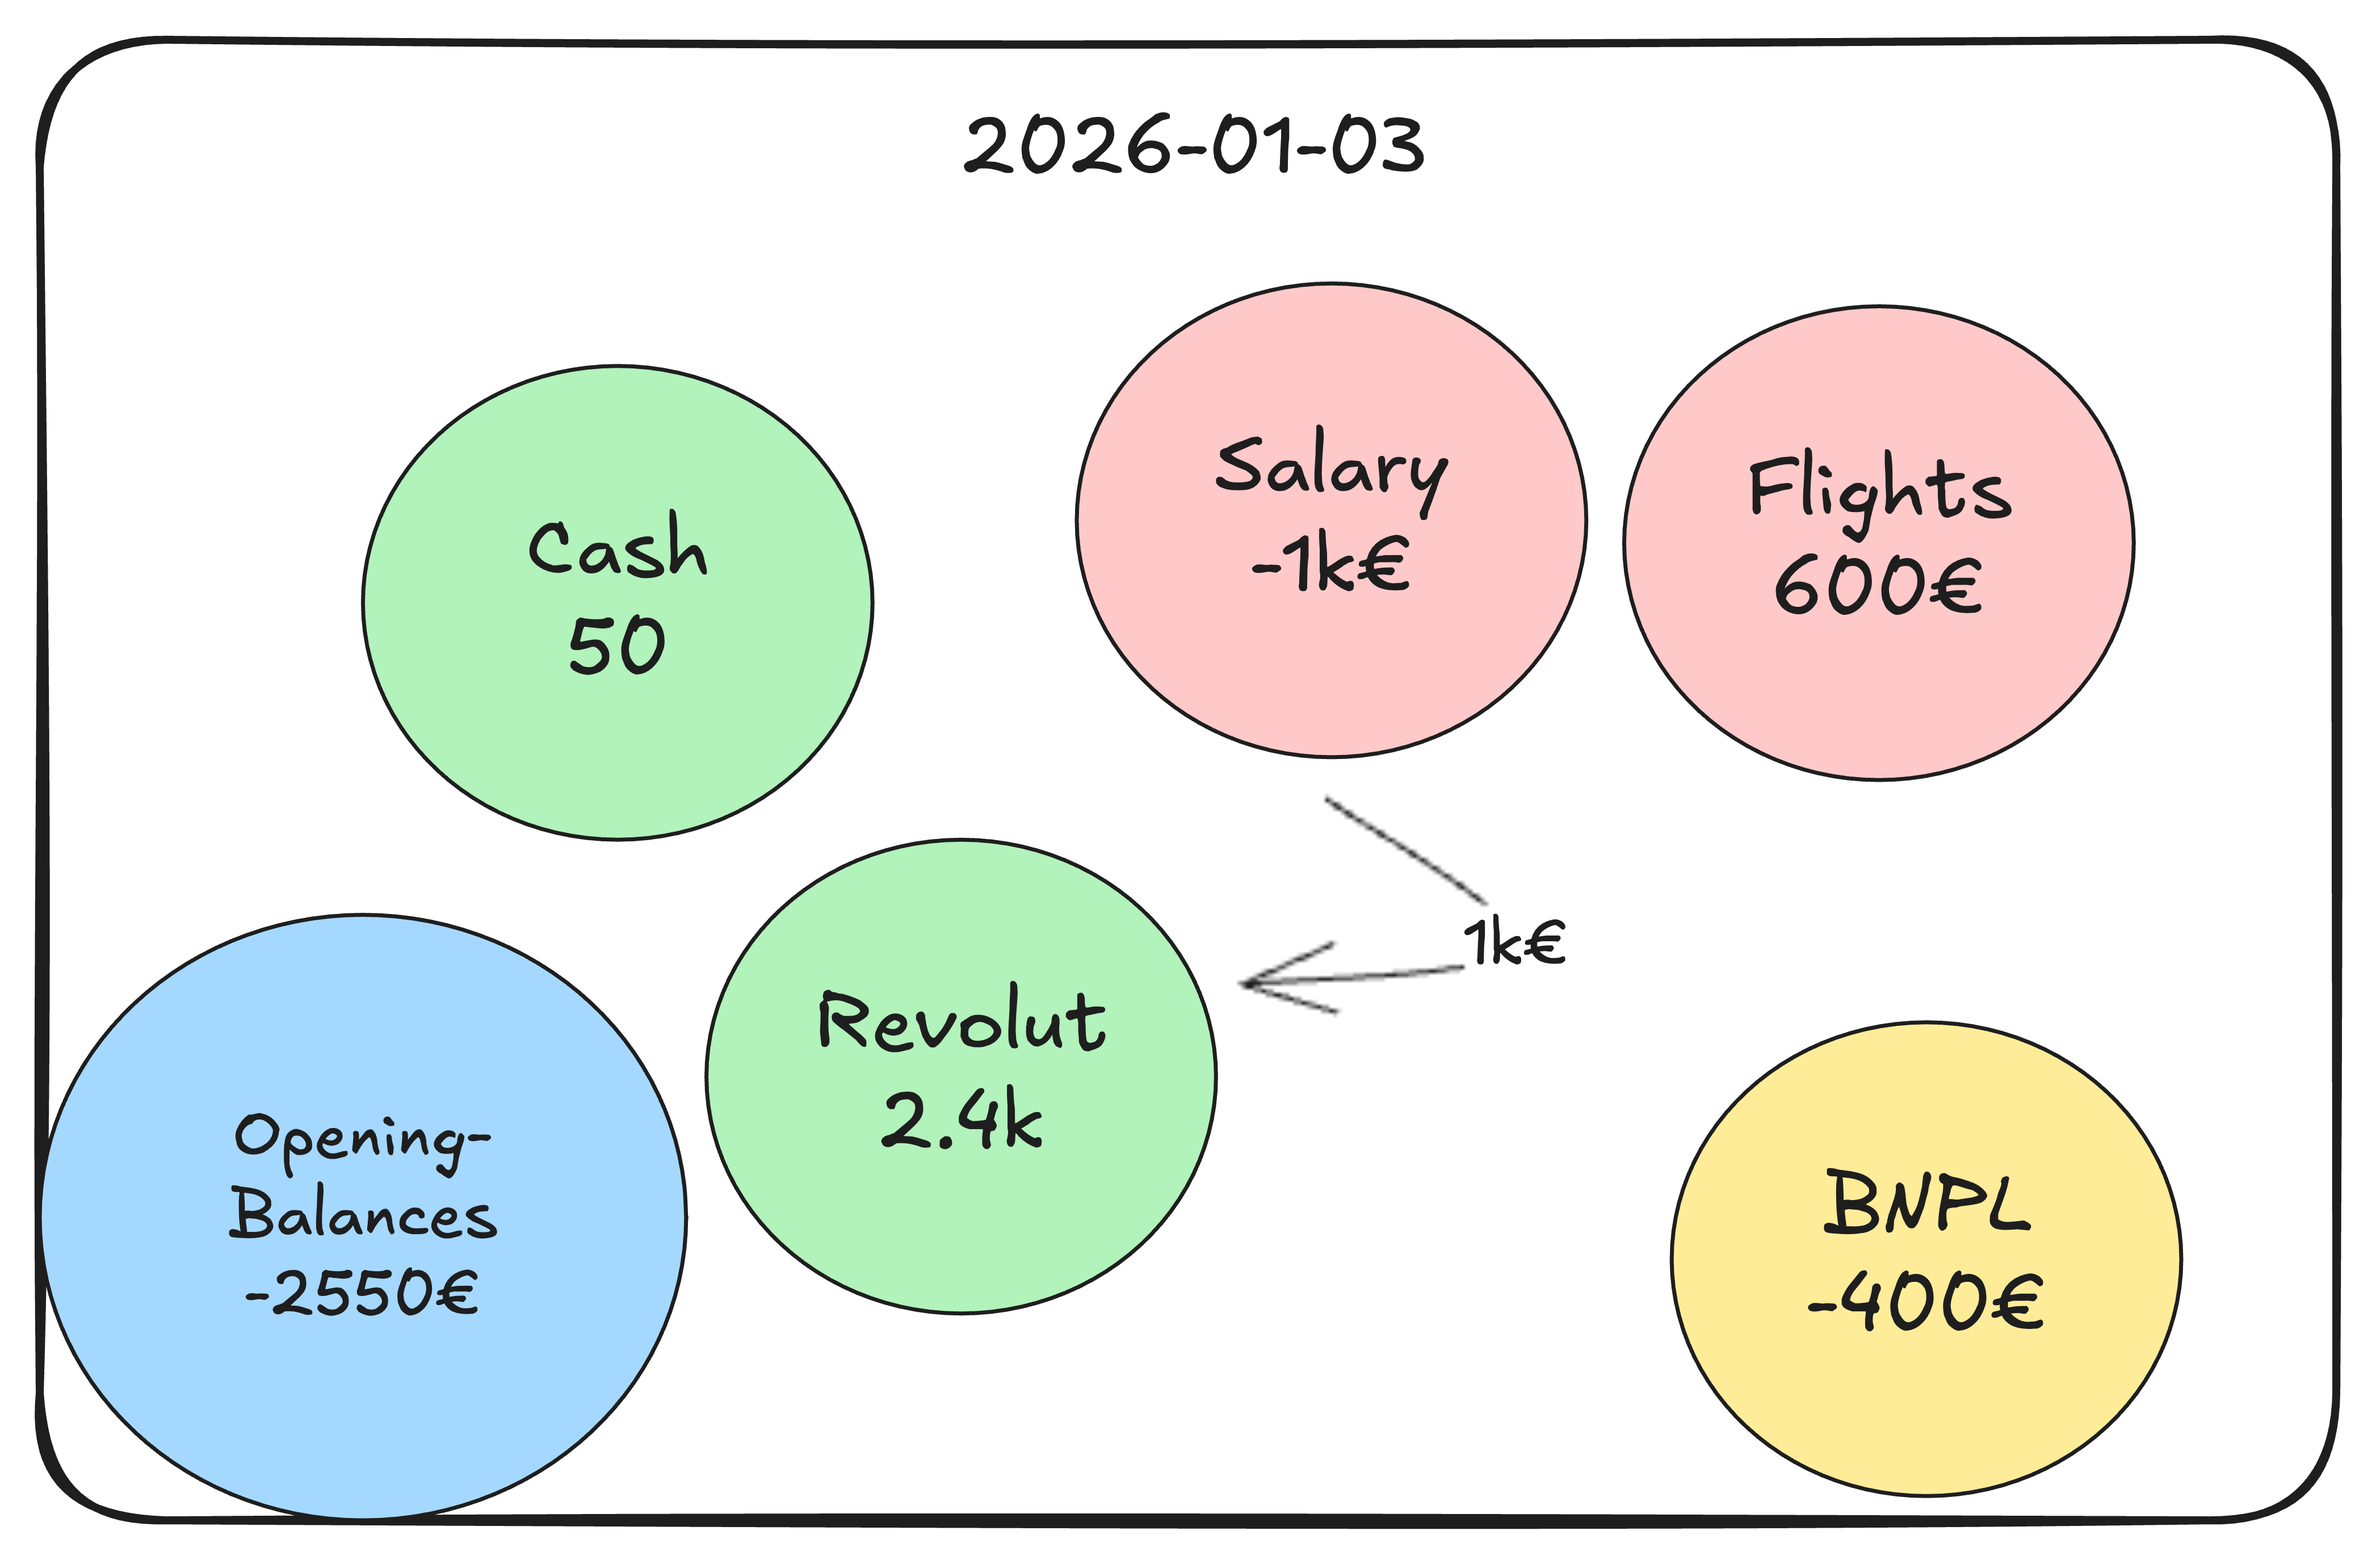
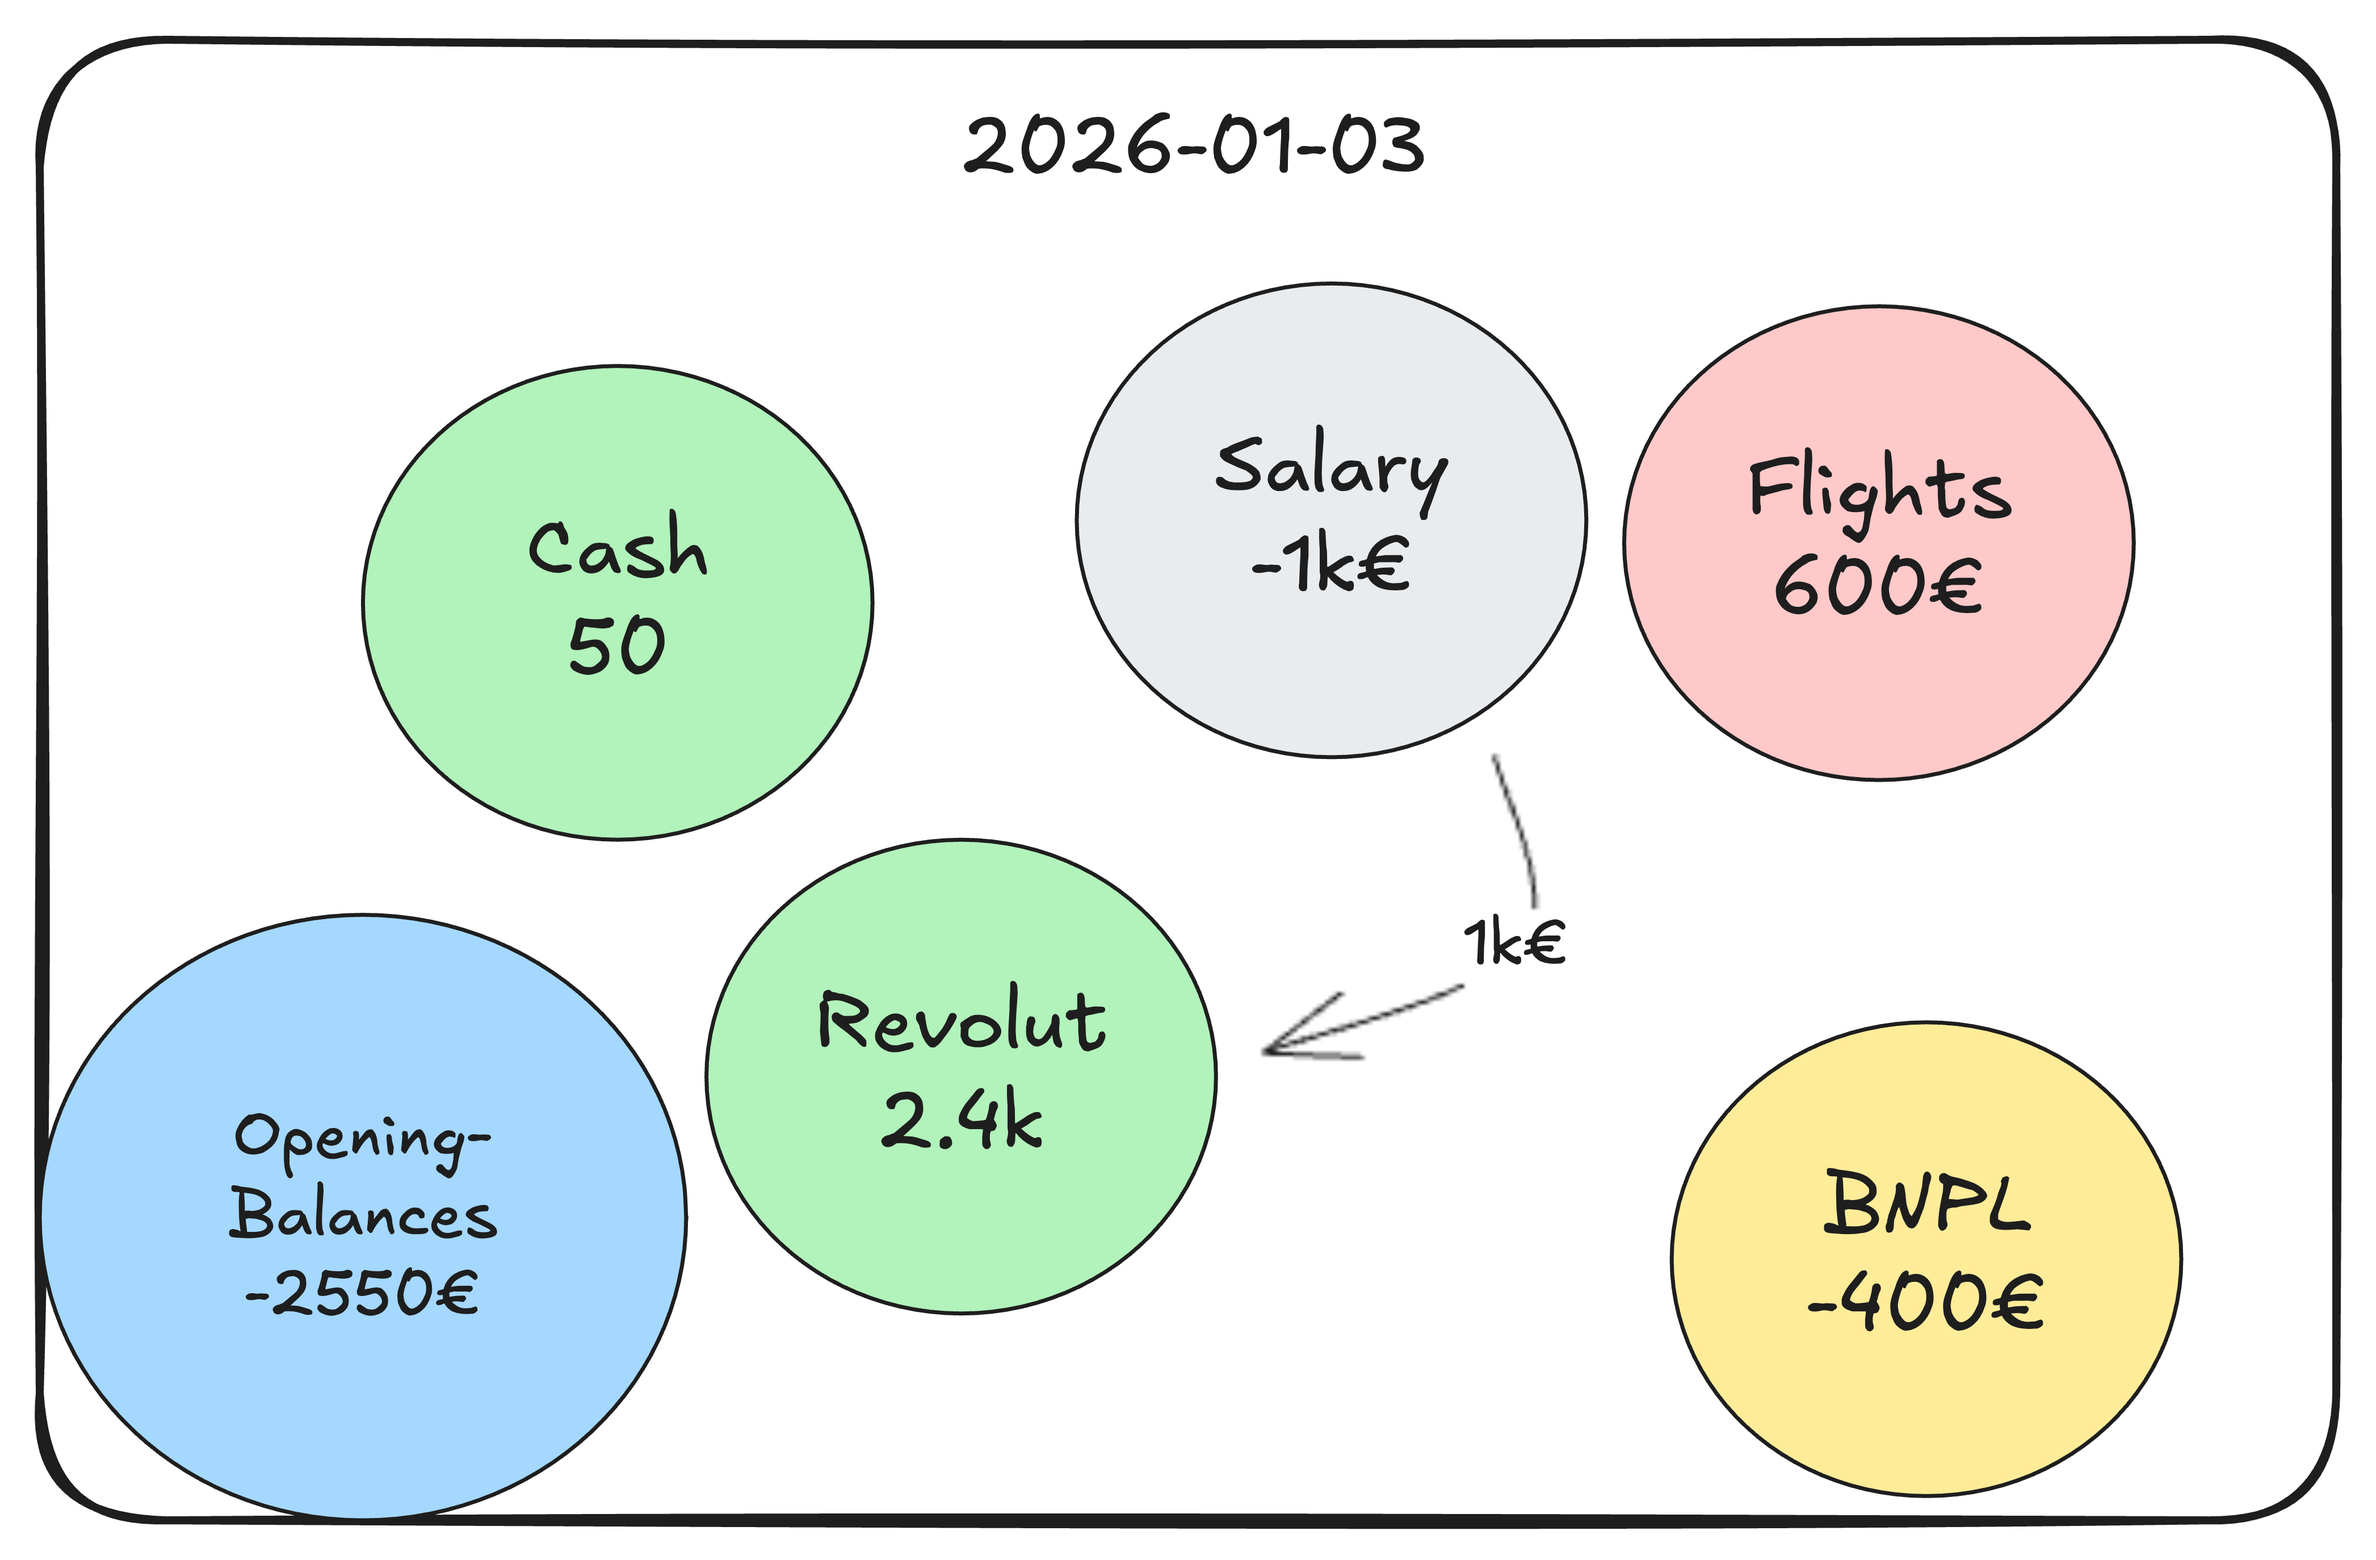
Published multiple files

diff --git a/content/References/Products/Beancount/Account Types (Accounting).md b/content/References/Products/Beancount/Account Types (Accounting).md
@@ -1,5 +1,5 @@
 ---
-{"publish":true,"created":"2026-01-03","modified":"2026-01-04T09:26:50.387+01:00","tags":["flashcards"],"cssclasses":"","socialImage":"[[Account Types.png]]"}
+{"publish":true,"created":"2026-01-03","modified":"2026-01-04T09:59:58.959+01:00","tags":["flashcards"],"cssclasses":"","socialImage":"[[Account Types.png]]"}
 ---
 
 # Summary
@@ -52,12 +52,12 @@ We can then infer some data:
 - Total Income in Jan-2026: by summing up all the entries associated with Income Accounts and recorded in January (Salary only), we can get the total amount: 1k€
 
 # Short Note
-I agree that many definitions are missing (what is Double-Entry account, what are an Account and a transaction?) I will probably cover these principles in a new Card.
+I agree that many definitions are missing (what is Double-Entry account, what are an Account and a transaction?) I will probably cover these principles in new [[Categories/Flashcards]].
 
 
 # Credits and References
 - [The double-entry Counting Method](https://beancount.github.io/docs/the_double_entry_counting_method.html#types-of-accounts), Beancount documentation
-# Licenses and Attributions
+## Licenses and Attributions
 - Airplane, Bank, Netflix, Piggy bank, Restaurant, Car, Klarna icons made by [Freepik](https://www.flaticon.com/authors/freepik) from [flaticon.com](https://www.flaticon.com/)
 - Mortgage icon made by [iconixar](https://www.flaticon.com/authors/iconixar) from [flaticon.com](https://www.flaticon.com/)
 - Salary icon made by [nawicon](https://www.flaticon.com/authors/nawicon) from [flaticon.com](https://www.flaticon.com/) from [flaticon.com](https://www.flaticon.com/)
